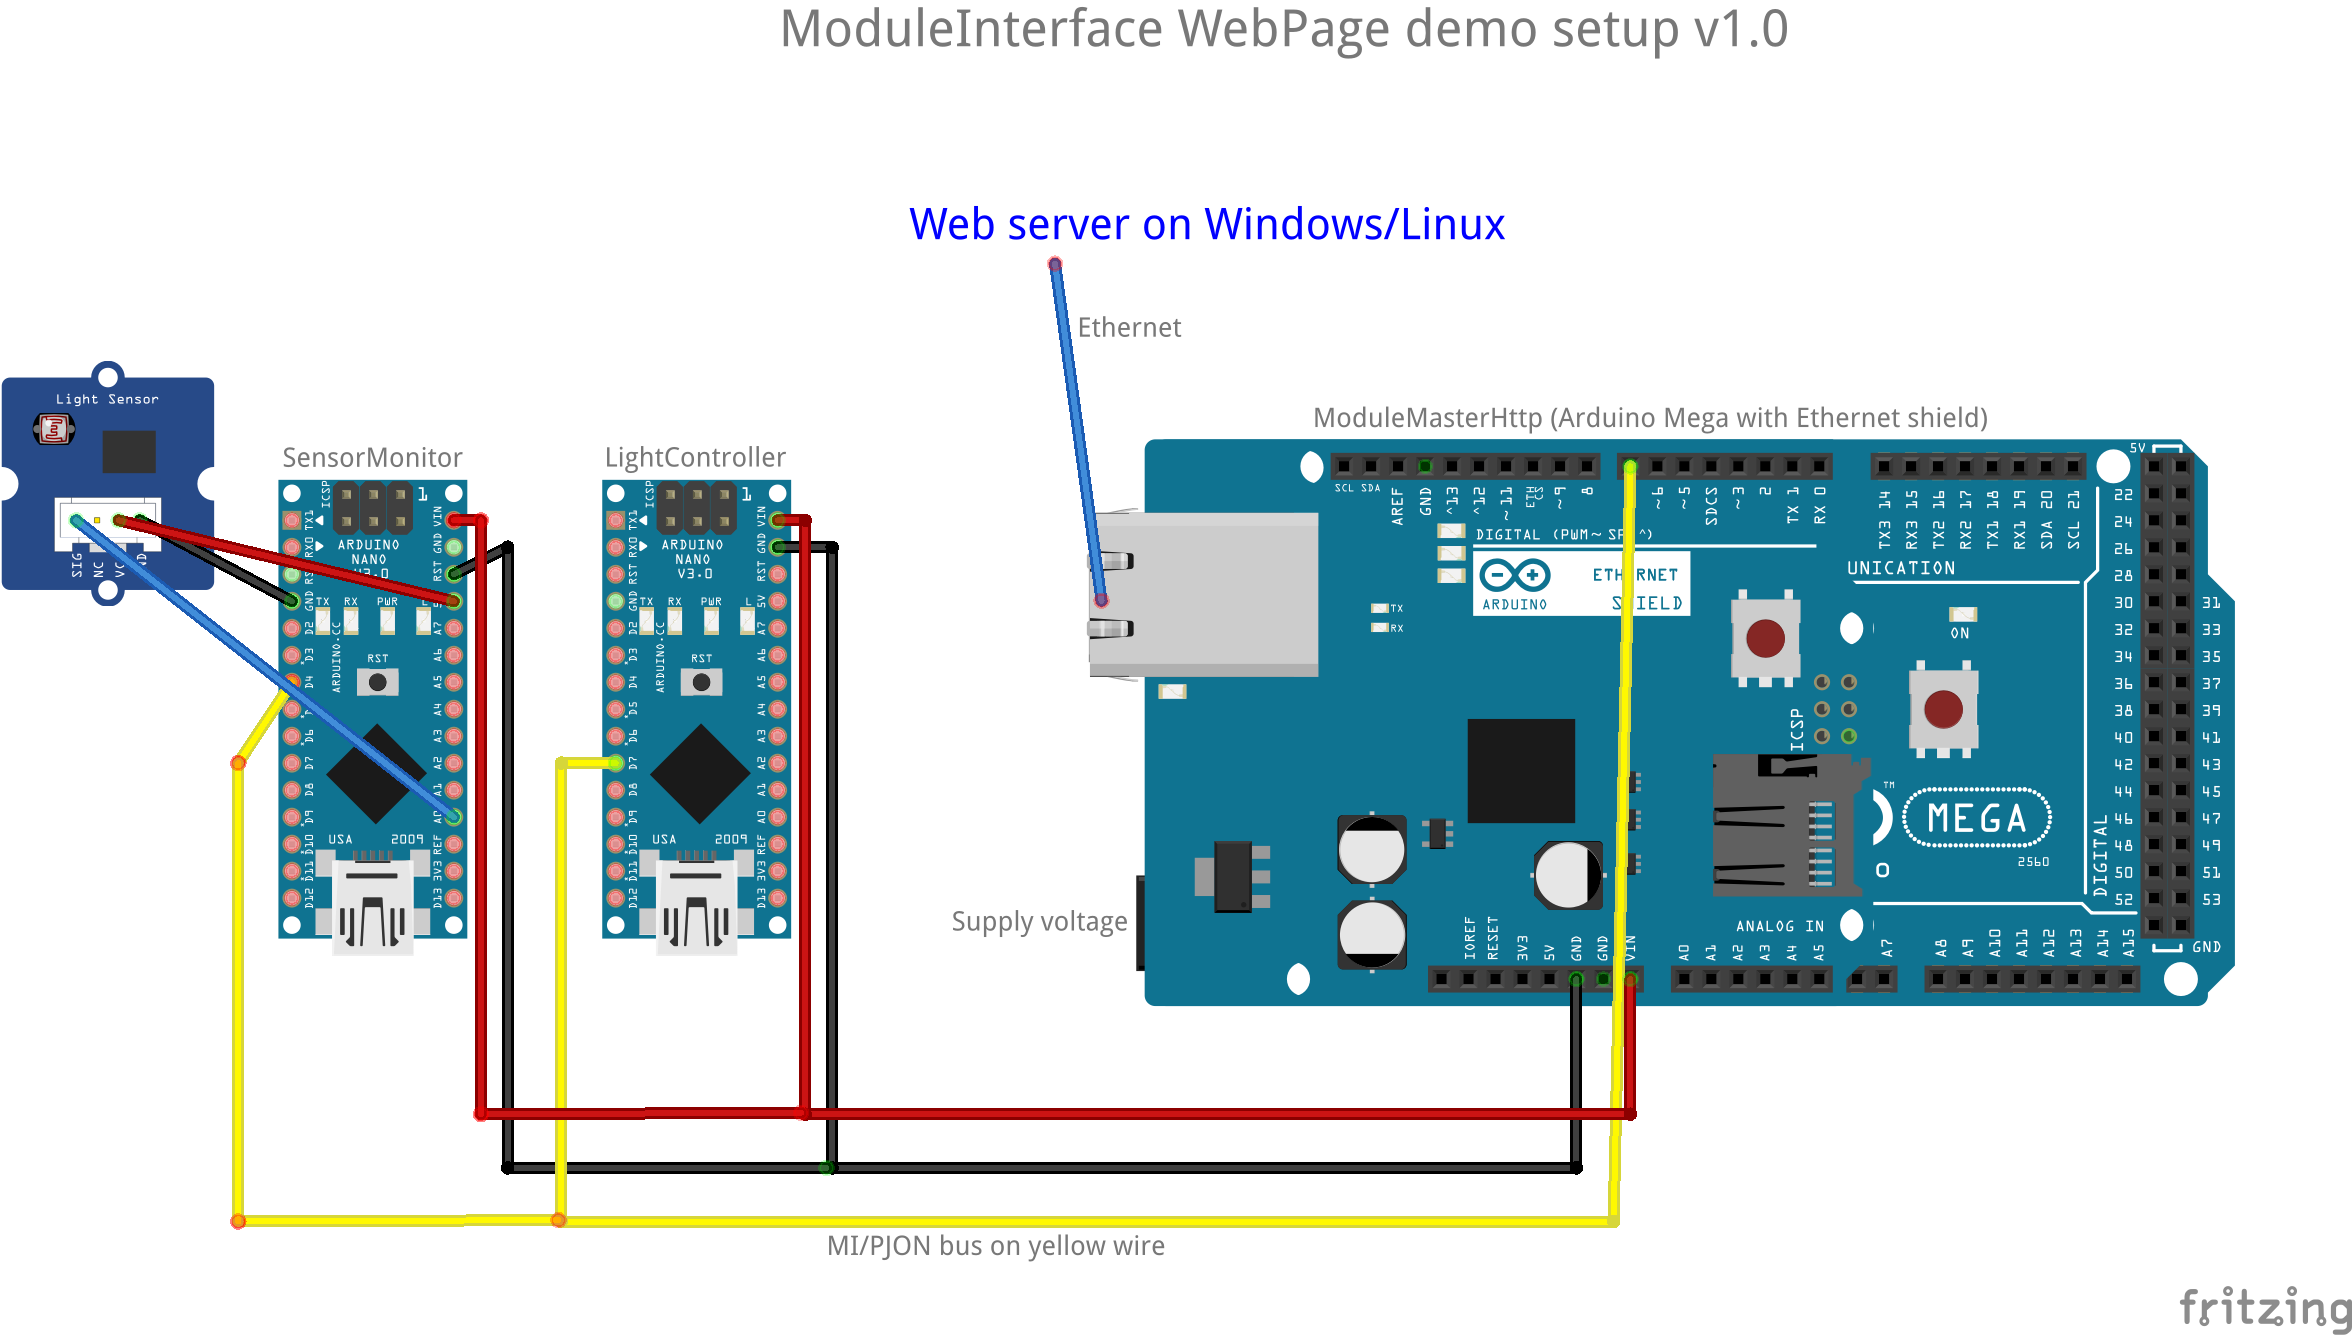
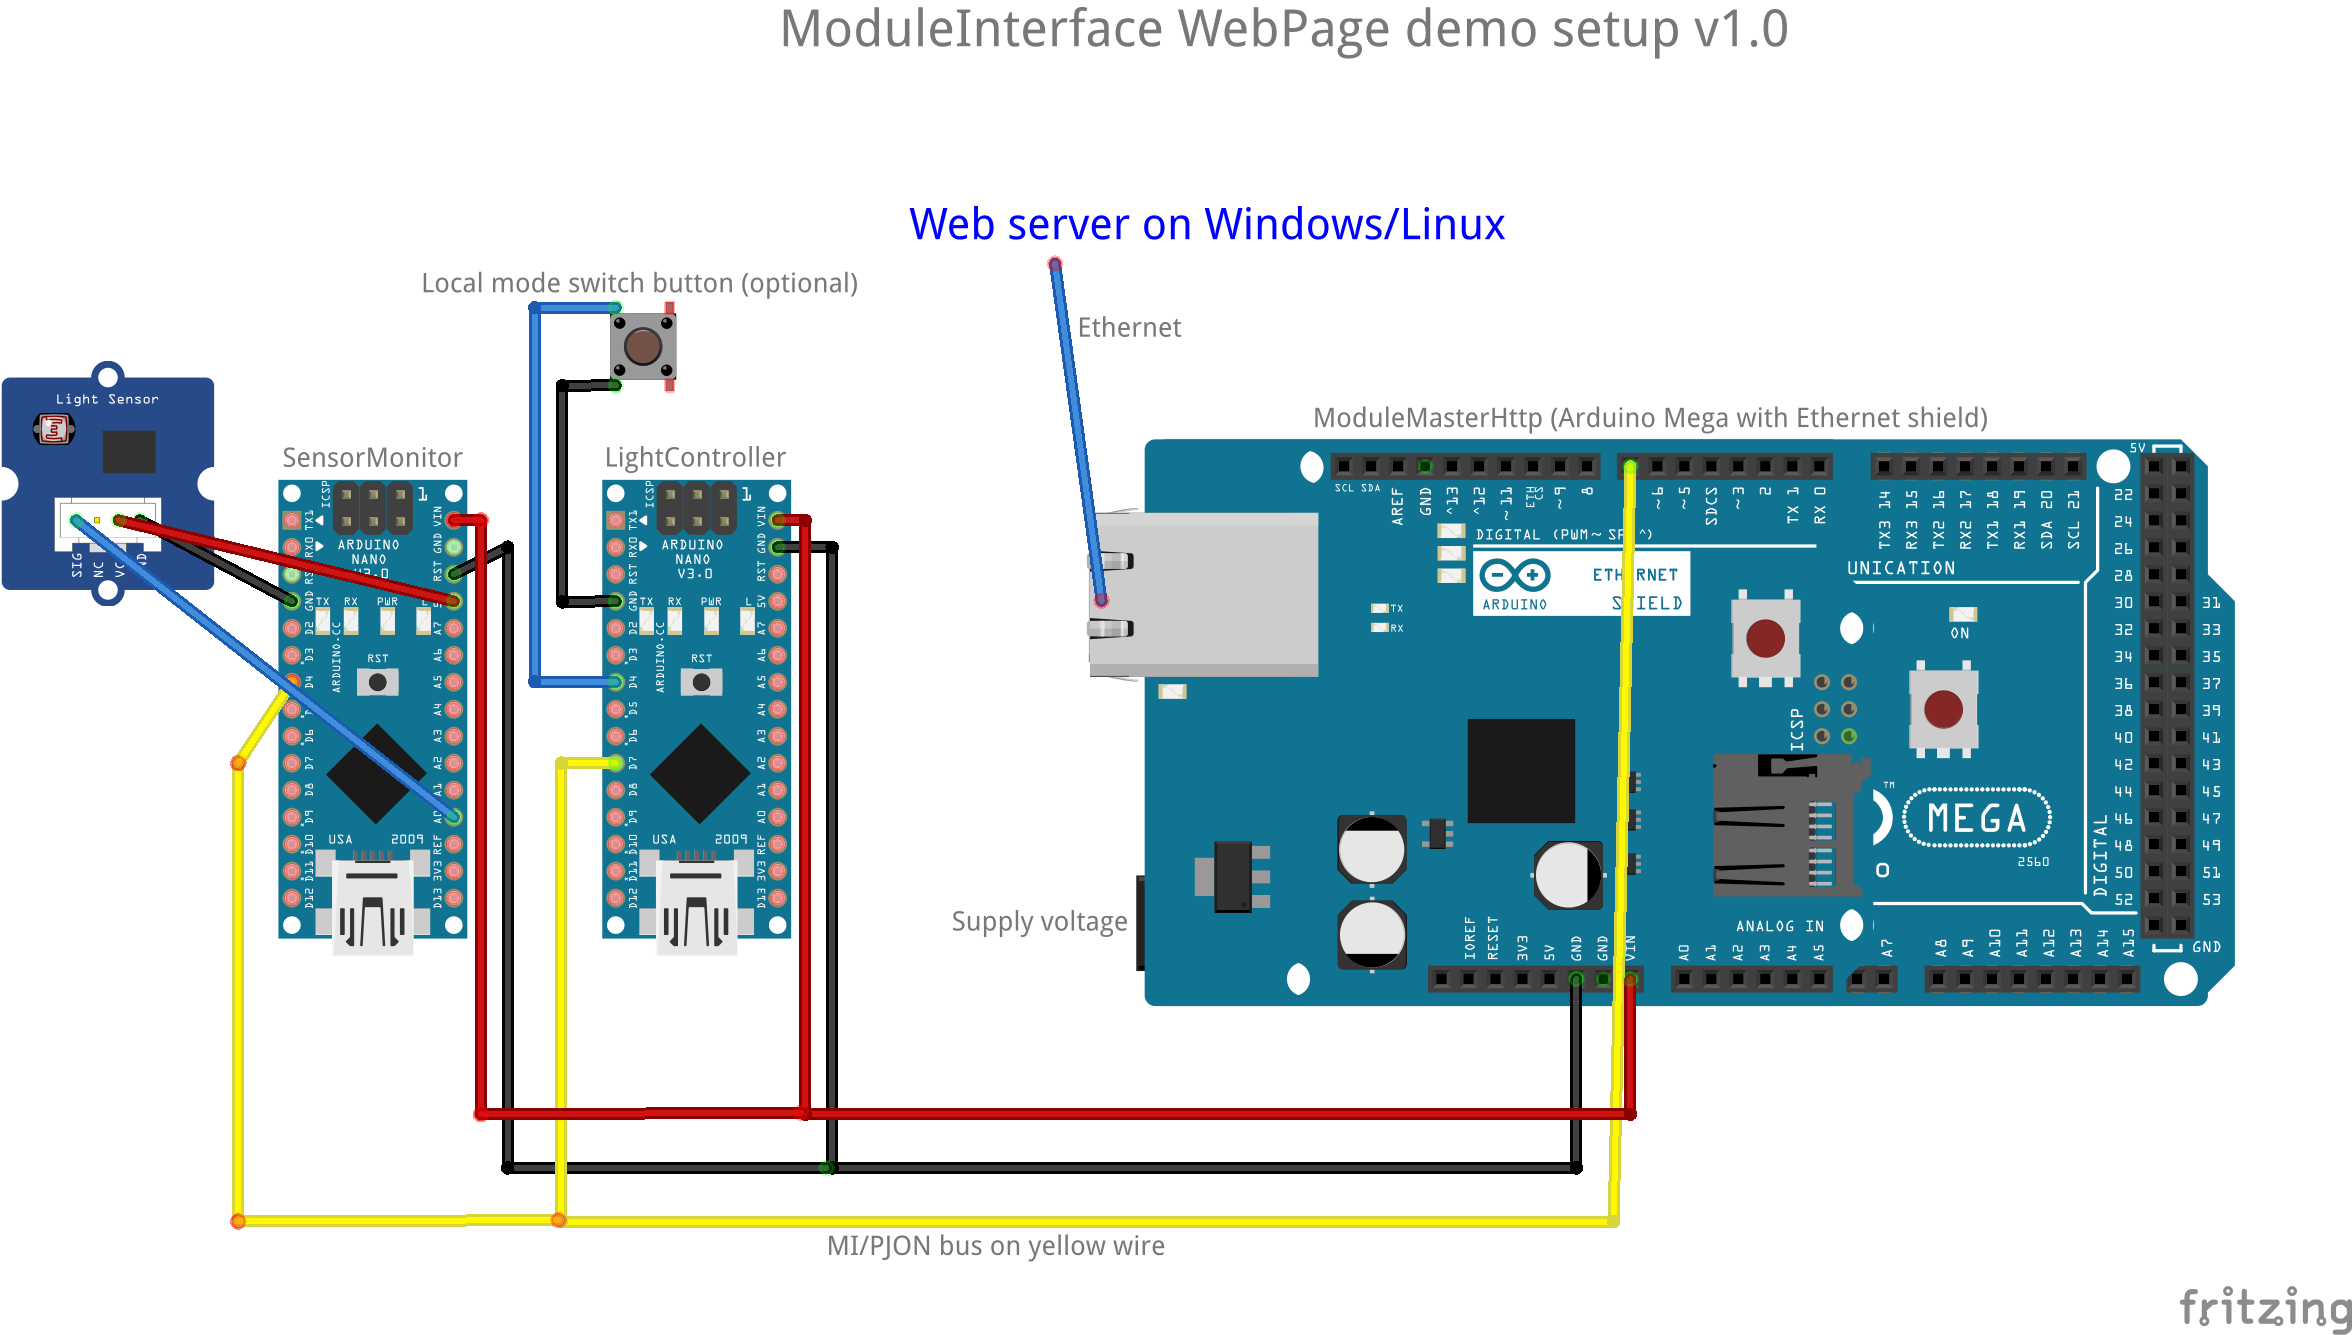
Updated READMEs and LightController Fritzing diagram

Changed region(s): [[0.1862, 0.1843, 0.3414, 0.5221]]

diff --git a/examples/WebPage/README.md b/examples/WebPage/README.md
@@ -6,7 +6,7 @@ A "module" is simply a device like Arduino Nano equipped with necessary equipmen
 ### Components
 1. A SensorMonitor module, for example running on an Arduino Uno or Nano. This module simply reads a light sensor and reports it to the master.
 2. A LightController module, for example running on an Arduino Uno or Nano. This module subscribes to the light sensor reading from the SensorMonitor, and gets settings like time interval and light limit from the Master for controlling the light. In this example it only controls the on-board LED. It reports the current light state (or or off) to the master.
-3. A ModuleMasterHttp module running on an Arduino Mega (because of memory requirements) with an Ethernet shield. This will transfer settings from the database and outputs to the database using JSON and HTTP requests.
+3. A ModuleMasterHttp module running on an Arduino Mega (because of memory requirements) with an Ethernet shield. This will transfer settings to and from the database and outputs to the database using JSON and HTTP requests.
 4. A computer with a LAMP/WAMP setup. For example ![XAMPP](https://www.apachefriends.org/download.html) or ![WampServer](http://www.wampserver.com/en/).
 
 There are two sets of modules available in this example, in the ARDUINO_SWBB and ESP8266_GUDP directories. You should run one set at a time, unless you change one of the masters to avoid conflict of IP, master prefix and module prefixes. Running multiple setups or a mixed setup is possible, but keep it simple to start with.
@@ -33,7 +33,8 @@ This is how it will look when viewed on a narrow screen like a mobile phone:
 Program a device with the SensorMonitor sketch. Connect the analog pin of a light sensor to pin A0 (plus ground and voltage to sensor, of course). Connect pin 7 to the PJON bus on pin 7 of the master. Connect device ground to ground on the master.
 
 ### Configuration of LightController
-Program a device with the LightController sketch. Connect pin 7 to the PJON bus on pin 7 of the master. Connect device ground to ground on the master.
+Program a device with the LightController sketch. Connect pin 7 to the PJON bus on pin 7 of the master. Connect device ground to ground on the master. If you want to test setting the controller mode with a local control and not only from the web page,
+add a temporary push button between pin 4 and ground.
 
 ### Configuration of ModuleMasterHttp
  The master must have a correct network configuration for the network to which it is connected. This includes:
@@ -65,7 +66,9 @@ When all is up and running, check this:
 1, Are values updated in the currentvalues table?
 2. Are new rows being created in the timeseries table? You can inspect the table with HeidiSQL or phpMyAdmin.
 3. Are you getting the values shown in the plot in the web page?
-4. Can you change the LightController mode (on/off/auto) and see the on-board LED reflect this after maximum 10 seconds?
+4. Can you change the LightController mode (on/off/auto) and see the on-board LED reflect this after a few seconds?
+5. Can you push the mode switch button of the LightController module and see this reflected in the on-board LED,
+and also see it updated in the web page after some seconds? (The web page updates values every 5 seconds.)
 
 ### Debugging
 If it does not work right away, you can try the following steps.

diff --git a/README.md b/README.md
@@ -19,8 +19,8 @@ This library has the following focus:
 
 #### Features
 - Transport of values (measured and calculated) between modules according to their contracts
-- Transport of settings to modules from master
-- HTTP client lets the master transfer settings between a database and the modules, for configuration in web pages
+- Transport of settings between master and modules in both directions.
+- HTTP client lets the master transfer settings between a database and the modules, for configuration in web pages and/or in the modules themselves.
 - HTTP client lets the master save output values from the modules into a database, for time series trending and inspection in web pages
 - Optional persistence lets each module remember its last received settings at startup, for autonomous operation even if it has been disconnected from the master
 - Coarse clock synchronization of all modules (within a few seconds)
@@ -32,7 +32,7 @@ Each module does not know about any other device. The master contacts each modul
 
 Output values from one module will be delivered to all other modules that have an input value with the same name.
 
-Depending on the type of master used, the settings for all modules can be configured on a GUI (LCD+buttons or similar) belonging to the master, and/or retrieved from a database using the HTTP client. The settings in the database are then typically displayed and modified from web pages.
+Depending on the type of master used, the settings for all modules can be configured on a GUI (LCD+buttons or similar) belonging to the master or the modules, and/or retrieved from a database using the HTTP client. The settings in the database are then typically displayed and modified from web pages.
 
 When polling for settings from the database, the time from the database server is also retrieved, and distributed to modules as a coarse clock synchronization.
 
